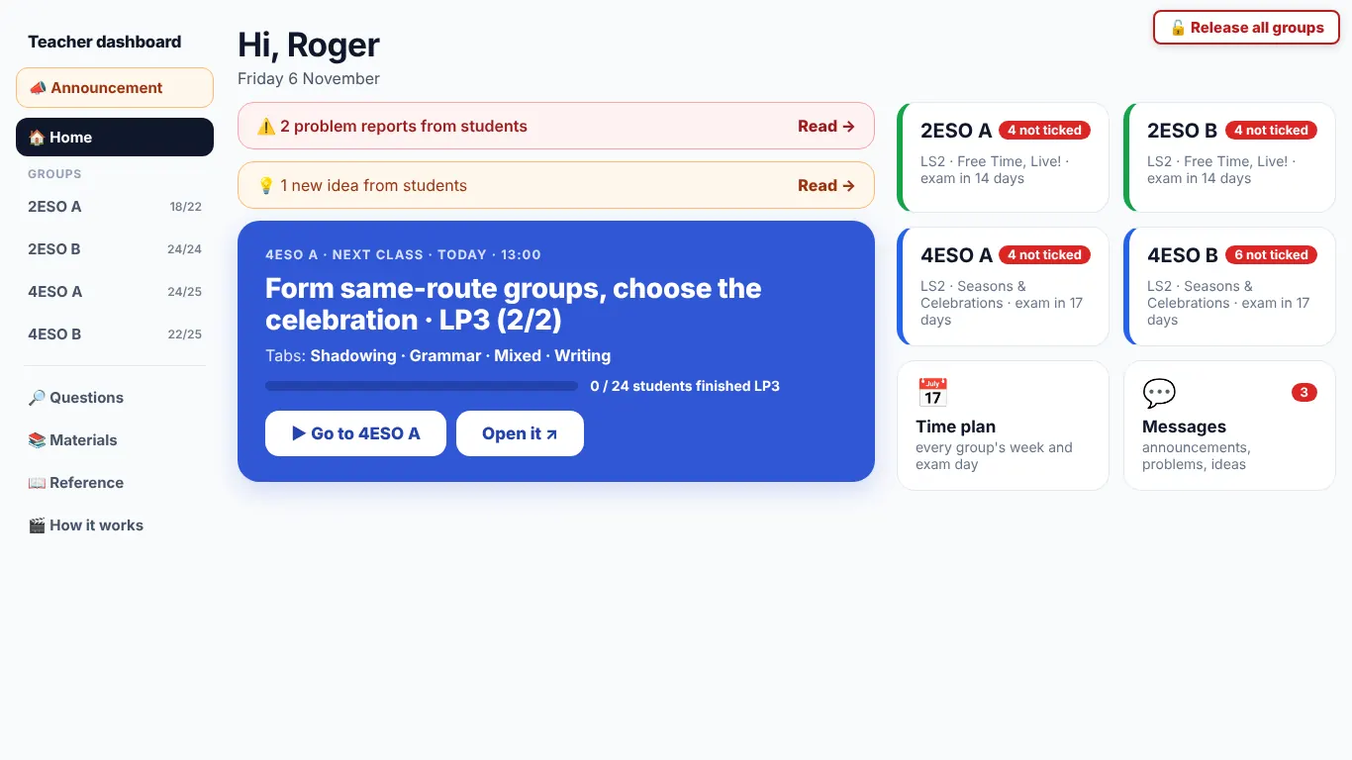
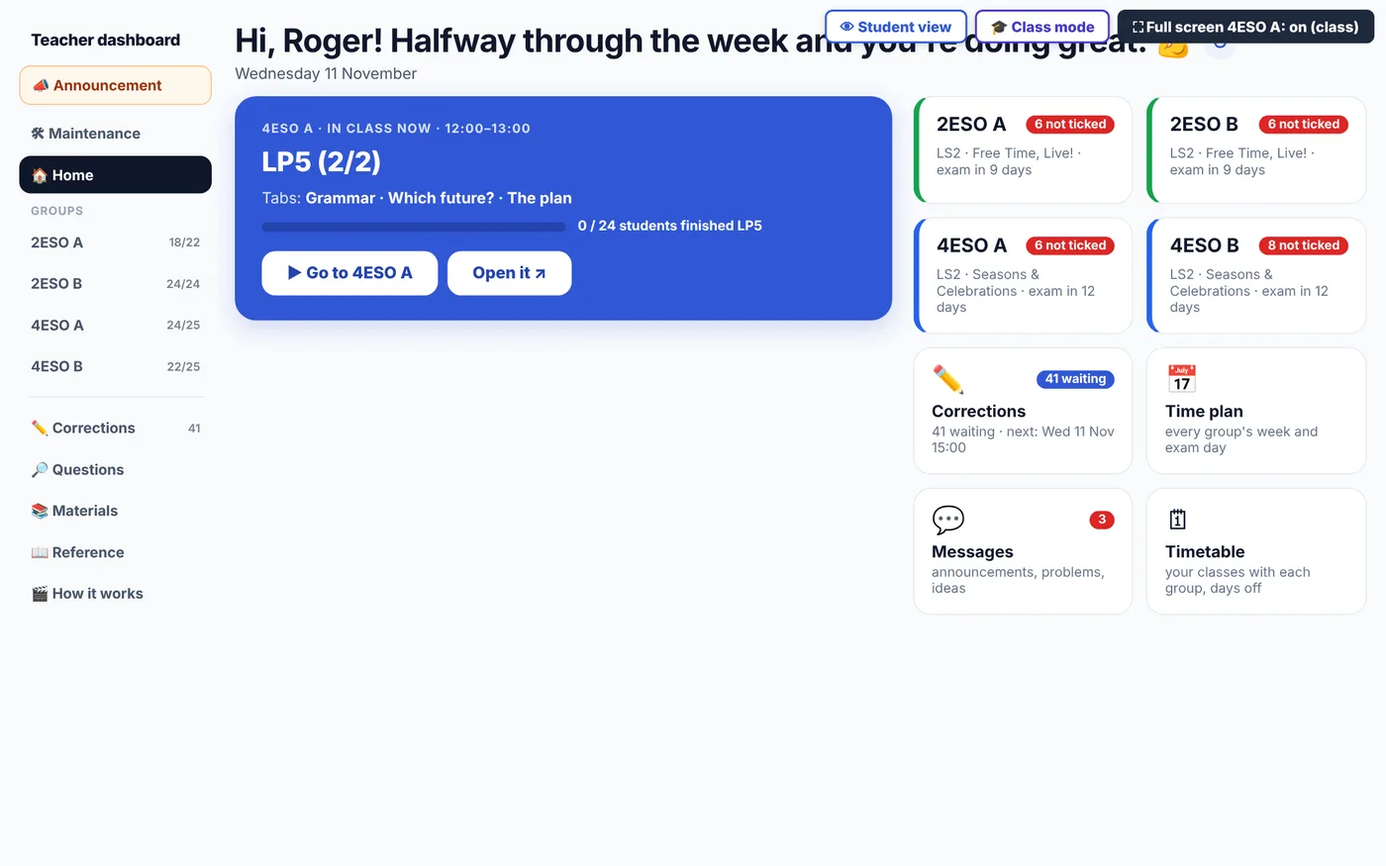
Welcome page: retake the pictures from the current site, and add the teacher's agenda
Roger: the exam picture showed only the criteria names (ours are explained),
class mode showed nobody in, and some pictures still had the old Release all
groups and full screen buttons. Retaken from the current pages in demo mode
(sample students only):
- Exam results: LS grade, results per part and each criterion explained.
- Focused in class: class mode with 21 in, who left full screen and who lost
  connection.
- The teacher's dashboard and agenda: group page, the Time plan with
  learning paths on the class days, and Home.
- Learning paths: open/locked table and the activities grid.
- Homework, final product, exam mode (rules + a question), the LS and
  Practise pictures.
Also fixes "Seasons &amp; Celebrations" (escaped twice) at the top of the
Time plan's learning-path column.

Claude-Session: https://claude.ai/code/session_011rtGVnZz9G4f5sruhzMcZ9

Changed region(s): [[0.0, 0.0, 1.0, 0.6875], [0.0, 0.625, 0.123, 0.7188], [0.9531, 0.5, 0.9839, 0.5312]]

diff --git a/index.html b/index.html
@@ -363,11 +363,11 @@
           <button type="button" class="feat" data-imgs="story"><span class="fi" aria-hidden="true">📖</span><h3>Stories to read in chapters</h3><p>A serial story for each course, one chapter per learning path and written in four levels, to keep reading at home.</p><span class="see">See it →</span></button>
           <button type="button" class="feat" data-imgs="board"><span class="fi" aria-hidden="true">🏠</span><h3>Each student&#x27;s own board</h3><p>Every student has a board with what to do next, their mark so far, the teacher&#x27;s feedback and a self-assessment at the end of each unit.</p><span class="see">See it →</span></button>
           <button type="button" class="feat" data-imgs="homework"><span class="fi" aria-hidden="true">🗓</span><h3>Homework with reminders</h3><p>The teacher sets homework from the dashboard. Students find it on their board and get a summary of the week by email.</p><span class="see">See it →</span></button>
-          <button type="button" class="feat" data-imgs="exam-mode"><span class="fi" aria-hidden="true">📝</span><h3>Exams in exam mode</h3><p>Exams are done in the app in exam mode: they open in full screen, and if a student leaves it, the exam is handed in.</p><span class="see">See it →</span></button>
+          <button type="button" class="feat" data-imgs="exam-mode,exam-mode-q"><span class="fi" aria-hidden="true">📝</span><h3>Exams in exam mode</h3><p>Exams are done in the app in exam mode: they open in full screen, and if a student leaves it, the exam is handed in.</p><span class="see">See it →</span></button>
           <button type="button" class="feat" data-imgs="exam"><span class="fi" aria-hidden="true">📋</span><h3>Exam results by criterion</h3><p>After the exam, each student sees their mark for every criterion of the curriculum, explained in simple words.</p><span class="see">See it →</span></button>
           <button type="button" class="feat" data-imgs="final"><span class="fi" aria-hidden="true">🎬</span><h3>Final product with a rubric</h3><p>Each unit ends with a final product marked with one clear rubric: students see their level shaded in each part and the teacher&#x27;s feedback.</p><span class="see">See it →</span></button>
-          <button type="button" class="feat" data-imgs="dashboard"><span class="fi" aria-hidden="true">📊</span><h3>The teacher&#x27;s dashboard</h3><p>One place for the teacher: the next class, every group, marks, corrections and messages from students.</p><span class="see">See it →</span></button>
-          <button type="button" class="feat" data-imgs="paths"><span class="fi" aria-hidden="true">📈</span><h3>The teacher follows every learning path</h3><p>The teacher sees what each student has done and what is missing, and opens or locks each learning path and section for each group.</p><span class="see">See it →</span></button>
+          <button type="button" class="feat" data-imgs="dashboard-group,agenda,dashboard"><span class="fi" aria-hidden="true">📊</span><h3>The teacher&#x27;s dashboard and agenda</h3><p>One place for the teacher: an agenda where learning paths are dragged onto each group&#x27;s class days, the next class, marks, corrections and messages from students.</p><span class="see">See it →</span></button>
+          <button type="button" class="feat" data-imgs="paths,paths-grid"><span class="fi" aria-hidden="true">📈</span><h3>The teacher follows every learning path</h3><p>The teacher sees what each student has done and what is missing, and opens or locks each learning path and section for each group.</p><span class="see">See it →</span></button>
           <button type="button" class="feat" data-imgs="class"><span class="fi" aria-hidden="true">🔒</span><h3>Focused in class</h3><p>In class the app goes full screen: the teacher sees who is in the app and who has left it, and can take the whole group to the same activity, so students stay on task.</p><span class="see">See it →</span></button>
           <button type="button" class="feat" data-imgs="phone"><span class="fi" aria-hidden="true">💻</span><h3>Chromebooks and phones</h3><p>Made for school Chromebooks, and it works on phones too, where students can add it to the home screen like an app.</p><span class="see">See it →</span></button>
         </div>
@@ -474,7 +474,7 @@
     document.querySelectorAll('.feat[data-imgs]').forEach(card => card.addEventListener('click', () => {
       shot.querySelector('h3').textContent = card.querySelector('h3').textContent;
       const body = shot.querySelector('.shot-body'); body.innerHTML = '';
-      card.dataset.imgs.split(',').forEach(n => { const im = document.createElement('img'); im.src = 'shared/img/home/' + n + '.webp'; im.alt = card.querySelector('h3').textContent; im.loading = 'lazy'; body.append(im); });
+      card.dataset.imgs.split(',').forEach(n => { const im = document.createElement('img'); im.src = 'shared/img/home/' + n + '.webp?v=2'; im.alt = card.querySelector('h3').textContent; im.loading = 'lazy'; body.append(im); });
       shot.showModal(); shot.scrollTop = 0;
     }));
     shot.querySelector('.shot-x').addEventListener('click', () => shot.close());

diff --git a/teacher.html b/teacher.html
@@ -2372,7 +2372,7 @@ function agList(x,studs){const ag=agOf(x),info=S.D.ls[x.ls]||{},hw=hwItems(x),dr
   const shut=rows.filter(r=>!r.open),k="agshut"+x.ls+x.gid;
   const rowsH=rows.filter(r=>r.open).map(r=>r.h).join("")+(shut.length?`<details class="agpast agshut" data-k="${esc(k)}" ${S.open.has(k)?"open":""}><summary>🔒 Not opened yet (${shut.length})</summary>${shut.map(r=>r.h).join("")}</details>`:"");
   const ex=ag.exam,n=ex?ELWeek.days(t,ex):null;
-  return `<aside class="agl" data-agdrop="" ${D}><h2>${esc(lsLabel(EL_LS.find(l=>l.id===x.ls))||x.ls)}</h2><p class="muted">Drag a learning path or one tab to a class day: it opens for the group. Drop it back here to take it off the agenda: it locks again.</p><p class="agkey">What each tab works: ${[["2","L","Listening"],["3","S","Speaking"],["4","R","Reading"],["5","W","Writing"]].map(([k,l,n])=>`<i style="background:${compCol(k)}">${l}</i> ${n}`).join(" ")} · other competences by their code<p class="agkey">On the class days: 👤 individual work · <b class="agiwk">👥</b> group work. Click it to switch a tab, or the one next to the learning path for all its tabs that day. <b class="aghw on" style="cursor:default">🏠</b> homework: click it on a tab to make it homework for the next class (click again to undo).</p>`
+  return `<aside class="agl" data-agdrop="" ${D}><h2>${(()=>{const l=EL_LS.find(l=>l.id===x.ls);return l?lsLabel(l):esc(x.ls)})()}</h2><p class="muted">Drag a learning path or one tab to a class day: it opens for the group. Drop it back here to take it off the agenda: it locks again.</p><p class="agkey">What each tab works: ${[["2","L","Listening"],["3","S","Speaking"],["4","R","Reading"],["5","W","Writing"]].map(([k,l,n])=>`<i style="background:${compCol(k)}">${l}</i> ${n}`).join(" ")} · other competences by their code<p class="agkey">On the class days: 👤 individual work · <b class="agiwk">👥</b> group work. Click it to switch a tab, or the one next to the learning path for all its tabs that day. <b class="aghw on" style="cursor:default">🏠</b> homework: click it on a tab to make it homework for the next class (click again to undo).</p>`
     +`<div class="agla exam"><div class="aglh" draggable="${ex?"true":"false"}" data-ag="exam" data-from="${ex||""}" ${D} title="Drag it to another day"><span class="agdot">⠿</span><span class="agln"><b>📝 Exam</b><small>${ex?esc(ELWeek.date(ex))+(n>1?` · in ${n} days`:n===1?" · tomorrow":n===0?" · today":" · done"):"no day yet"}</small></span></div></div>`
     +(shdUrl(x.ls)?(()=>{const sd=Object.keys(ag.days).filter(d=>ag.days[d].includes(SHD)).sort();return `<div class="agla shd"><div class="aglh" draggable="true" data-ag="shd" data-from="" ${D} title="Drag it to a class day (as many days as you like)"><span class="agdot">⠿</span><span class="agln"><b>🎬 Shadowing · whole class</b><small>the unit's video${sd.length?" · "+sd.map(d=>ELWeek.date(d).replace(/ \w+$/,"")).join(" · "):" · not on the agenda"}</small></span><a class="aglk" href="${esc(shdUrl(x.ls))}" target="_blank" rel="noopener" title="Open the video">▶</a></div></div>`})():"")
     +rowsH+`</aside>`}

diff --git a/AGENTS.md b/AGENTS.md
@@ -163,7 +163,7 @@ Every LS from LS2 on ends with a Reflect page whose **first tab is a self-assess
 - **Exam by criterion (Roger, 30 Oct 2026):** an exam section may carry its criteria, `[key, name, max, [criteria]]`, as on the exam's cover (Apartat · Criteri · Punts). `elExamByCrit` (el-grading.js) sums each criterion's sections, so a section shared by two criteria (vocabulary: 4.1 and 5.1) counts in both; the exam mark stays all points ÷ 10 (Roger, 30 Oct 2026: “leave the exam as it is”). **Use of English is reading and writing (Roger, 30 Oct 2026: “even though students see that section as Use of English … the competences are reading and writing”):** vocabulary and grammar sections count for reading and writing alike (LS2: both 4.1 and 5.1); LS1 keeps the criteria printed on its exam covers. The same holds in the learning paths (Roger, same day): a vocabulary or grammar step with no criteria of its own (recall, words, cards, practice, grammar, mixed, vocab) counts for 4.1 and 5.1 (end of `el-catalog.js`), so the whole-year view's “how much it is worked” counts it as reading and writing. **The final product counts 25 % in every LS** (Roger, 30 Oct 2026; LS1: exam 75 · final product 25, it was 50/50). The dashboard's Exam marks table and a student's LS grade dialog show a mark /10 per criterion, and the student board (LS1 view) shows "Your exam by criteria". 4ESO LS1 splits the writing into its rubric rows (task 8, grammar 4, vocabulary 4 → 5.1; organisation 4 → 5.2). 2ESO LS1 follows its exam cover per item type: vocabulary choose 16 → 4.1, complete 12 → 5.1; grammar choose 14 → 5.1 and 4.1, complete 18 → 5.1; writing as in 4ESO. Typed marks are kept between 0 and the section maximum and the criteria, exam mark and LS mark update as they are typed (`liveExam`); saving refuses a score above its maximum. Typed exam marks save by themselves when the box is left (`autoSaveExam`, "not saved yet" / "✓ saved" next to the name; leaving the page with unsaved marks asks first): on 30 Oct 2026 marks typed but never saved showed on the dashboard while the student board said "no mark yet". The student board only reads saved marks. Marks from a spreadsheet: `tools/exam-marks/import-exam-marks.mjs <csv> <ls> [--apply]` on Roger's PC (CSV outside the repo, `email` + section keys). Exam version (Roger, 30 Oct 2026): `.version` (insecure/safe/daring) in `results/{ls}__assessment` says which exam version the student took; the Exam marks table and the grade dialog have a selector (saves on change), the LS grade table shows it under the exam mark, and the import takes an optional `version` column. The Exam marks table also shows the current route next to the version, with ⚠ when they differ (also in the LS grade table and the grade dialog).
 - **The board is the LS report (Roger, 1 Nov 2026: "the idea is that I don't need to make [the LS1 reports] again since all the info could be on their student board"):** `today.html` has a big LS picker card (`lsCard`) with three tabs per LS: 🗓 My week (week plan, homework, summary, practice; hidden for an `only` LS with no plan), 📈 My formative assessment (learning-path grids and "Summary of my criteria", in an orange frame so it stands out; an `only` LS shows its final product) and 📝 My exams (`examView`; the exam is shown only there). Hashes `#week`, `#formative`, `#exam` open a tab (the exam notice links `?ls=…#exam`). My exams: LS grade (`only` LSs: exam + final product + LS mark; other LSs: exam mark and its weight, the rest given by the teacher), 1 results per part, 2 exam by criteria, then the report from `results/{ls}__assessment .report` = `{model, lang, questions:[{q,part,pts,got,text,mine,right,why,lp:{t,href}}], writing:{original, corrected (changes in *…*), rubric:[{name,score,max}] (Firestore allows no array in an array; the old [name,score,max] form is still read), feedback, errors:[{type,orig,fix,why}], note}, review:[{text,lp}]}`: 3 questions to review, 4 the writing (rubric, comment, Mistake / Correction / Why table as in `el-corrections.js`, own text next to the corrected one; `note` = a teacher's note such as the reliability check), 5 what to review with links. Before the exam is marked the tab says so and gives the exam day. Report texts are in the student's language at the exam (Catalan for Insecure, English otherwise). LS1: `tools/exam-report/build-ls1-reports.py {4eso|4eso-six|2eso} <workbook> <out.json> [why-en.json]` turns Roger's marked workbooks (the ones his Apps Script made PDFs from) into `{email: report}`; `node tools/exam-report/import-exam-report.mjs <json> <ls> [--apply]` writes only `.report` (dry run without --apply; on Roger's computer, JSON outside the repo). Any later exam pipeline only needs to write the same `.report`. **Whole exam, question by question (Roger, 2 Nov 2026: "students … want to see what they did well too", with the reading text):** a report with `full: true` holds every question of the student's own exam (model + route): the right ones as `{q,part,pts,got,text,mine,ok:true}` (no why/lp), each question with the paper's choices `opts:["A. …",…]` and `hint`, plus `exam:{listening:{about,text (transcript, if any)},reading:{title,body},writing:{title,task,points}}`; box 3 becomes "Your exam, question by question" (`examWhole`): parts with their text (reading always shown, transcript in a fold, writing task), green/red/amber cards with the choices (theirs and the right one marked), why + review link on the lost ones, and an All / Right / To review filter (CSS `:has`, no state). Reports without `full` keep the old table. Built with `build-ls1-reports.py … --exam exam-texts.json` (exam texts parsed from the Word papers in Drive, kept in project files, never in this public repo), written with `node tools/exam-report/add-full-exam.mjs <json> <ls> [--apply]`, which adds only the right questions, opts/hint and `exam` to the report already on the board and skips a student whose questions to review differ (sign-in: `FIREBASE_SERVICE_ACCOUNT` or the Firebase CLI). Future web exams should store the same shape. **Writing rubric explained (Roger, 2 Nov 2026: "aquí falta explicar bé els criteris d'avaluació"):** rows named `C1`–`C4` (task and content, grammar, vocabulary, organisation and cohesion) are drawn as cards (`WRUB` in `today.html`), in the board's language whatever the report's: what the row checks, its official criterion (from the exam sections `wtask`/`wgrammar`/`wvocab`/`worg` in `EL_GRADING`), four levels shown as the row's mark out of 4 (Excellent 4/4, Good 3/4, Needs work 2/4, Not enough 1/4; Roger 2 Nov 2026: "hauria de ser 3/4 i si vols la ponderació") with a ⚖ weight line (the row's % of the writing and the points it gives); the level comes from the points, each level showing its point range (Excellent = full marks only, Good from ¾ of the points, Needs work from ⅜: out of 8 = 8 · 6–7 · 3–5 · 0–2, out of 4 = 4 · 3 · 2 · 0–1; `wCuts`; Roger 2 Nov 2026: 7/8 as Excellent made no sense) with the student's marked, and the numbers of the mistakes of that row (`WTYPE`, by the first word of the mistake type; mixed types get none; C1 points to the teacher's comment). Other row names are shown as they come. A later exam keeps this by naming its writing rows C1–C4.
 - **Simple student board and learning paths (Roger, 6 Nov 2026: "the menus have little information and when you go to a place you can find the info that you need"; students use Chromebooks, so design for ~1366×768 first):** `today.html` home shows only a greeting (first name, group · LS · days to the exam), red alerts (missing activities, unread announcements), one big **Continue** card (`nextFor`: the first open, not done, not dropped activity in plan order, or a missing checkpoint) and four tiles: 🏠 Homework `#homework` (work count, late list, week plan), 📊 My marks `#marks` (LS chips + the formative / final product / exams tabs above), 📚 Learning Situations `#units` (LS cards, level, study and practice) and ❓ Help `#help` (how-it-works videos, Problem/Idea, hard reload). Each place has a ‹ Home back link; `#news` holds announcements; old hashes `#formative`, `#final`, `#exam` open My marks and `#week` opens Homework. The LS2 learning-path page (`ls2-engine.js`, both courses) folds the warm-up note and "how it works" into one ⓘ fold, puts the study guide next to it, and on wide screens lists the steps on the left (numbers, ✓ when done, NEXT on the first one not done). New student screens follow the same rule: little on the menu, the details inside each place. LS1 pages are unchanged. **Phone view (Roger, 6 Nov 2026: "so that students can use it on their cellphones"):** at ≤640px the board hides the top menu and shows a fixed bottom bar (`bnav`: Home, Homework, Marks, LS, Help, with the missing count), the home is compact, the learning-paths table becomes one card per path, and the LS place carries the links the top menu had (My course, Practise, English Lab); on LS2 learning paths the top bar scrolls away and the strip of steps sticks to the top of the screen, keeps the open step in view and jumps to the start of the step when tapped. Check new student screens at 390×844 too. **Study on your phone (Roger, 6 Nov 2026):** a dismissible card on the board home ("Study on your phone too", hidden once closed via `localStorage.el_phone_seen` and when opened from the home screen) and in Help leads to `#phone`: the board and a learning path on a phone, a QR code to `today.html` (`shared/img/phone/qr-board.svg`, hidden on phones), Android Chrome and iPhone Safari step pictures in Catalan and English (`shared/img/phone/*.webp`, the device's own steps open first) and Chrome's Install button when the browser offers it (`beforeinstallprompt`). If the board changes a lot, retake the pictures.
-- **The whole site as an app (Roger, 6 Nov 2026: "I want everything to look like an app for them even though they connect through a Chromebook"; "these things should look like buttons"; "it's not my activities but my dashboard"):** the board is called **My dashboard / El meu tauler** everywhere (menus, ‹ back links, `menuLink` in `el-cloud.js`, page title); the "📋 My activities" box on it keeps its name. Every menu item is a button with an icon (`shared/css/el-app.css`: `.side .nv` with `.ic` + `.lb` spans; the board, the LS home via `ls-home.css`, English Lab). `shared/js/el-app.js` (loaded by `el-cloud.js` on every page, and at once by `ls2-engine.js`) gives every other student page the same menu, 🏠 My dashboard · 📚 LSn (the page's LS, else the group's by `ELWeek.now`) · 🗂 All LS · 🧪 English Lab · 🎯 Practise · ❓ Help (teacher: 📊 Dashboard, no Help): on a computer the LS home's side menu on the left (`.elrail`, 240 px: brand + the same wide `.nv` buttons with labels and ›, the LS by its title; Roger, 7 Nov 2026: "the format should be the same (buttons)"; 641–980 px a strip of icon buttons, 92 px) on learning paths (LS2 on: every page with the engine's `#sessionJump`), course pages and vocabulary games; English Lab and Practise keep their side menu, rebuilt as buttons (`.elside`); a phone gets the bottom bar (`.elbar`, ≤640 px; the account bar moves to the page end). On learning paths the dark top bar becomes a light one (‹ LS button, path selector) and, on a computer (≥1000 px; Roger, 6 Nov 2026: "use a column on the left with info of the LP, and it must be super easy to understand"), the page is two columns: on the left (`.ellpside`, sticky, scrolls on its own) the path's title and what it is, Your progress (level and steps done), the teacher's card (class game, level buttons, and the sections bar `el-cloud.js` draws into `.eltsec-host`: sections open, pull up, full screen, locked warning; its long help text and the Teacher mode strip are hidden), the steps, then How it works, the study guide and My goal; the step is on the right. `lpLayout` in `el-app.js` moves the hero pieces once and the engine's `.lp-top`, goal card and steps nav after every redraw of `#lp`; a phone and narrow windows keep the page's own layout. A student's single level card goes. A learning path page that does not use the engine (4 ESO LS2 Getting started) must have the same parts in `main#lp`: `.lp-top` (How it works fold + study guide), then the goal `.plan-card` right after it, then `.lp-body` with `nav.tabs` (steps as `.tn` number + `.tl` label, `done`/`next` classes) and the panels; otherwise it keeps the old hero and tab layout (Roger, 7 Nov 2026: "this doesn't match the new style"). Course pages and English Lab keep the public look when signed out. **The home page (`index.html`) is only a welcome page to sign in (Roger, 7 Nov 2026: "it makes no sense that this menu exists since we all go to the dashboards. Maybe, we should have a welcome page to sign in"):** no menu and no account chip for a signed-out visitor: what the app is (Spanish and Catalan curriculum, learning situations, competences, structured grammar and vocabulary), one Sign in button and sixteen "What's inside" cards, each opening its picture(s) from `shared/img/home/` (sample students only, never real names; keep cards and pictures true when features change); whoever is signed in goes to their dashboard (teacher `teacher.html`, students and the test account `today.html`), at once from `el_who` in the page head and again once Firebase answers. Signed out on `teacher.html` or `today.html` (sign-in ended, a bookmark) goes back to this welcome page (Roger, 7 Nov 2026: "this should be the page"); `el-cloud.js` removes `el_who` before `onUser` runs, so there is no loop. Only the teacher's and the test account's Courses and Learning Situations lists stay (`index.html#courses`, `#learning`, el-app.js mode `home`: 📊 Dashboard · 🏫 Courses · 📚 Learning Situations · 🧪 English Lab · 🎯 Practise). LS1 pages, the board and LS homes (their own full menu), class games and model slideshows are left out. No Firestore reads. A new student page gets the menu by matching one of the modes in `el-app.js`. **All Learning Situations (Roger, 6 Nov 2026: "aquest no m'agrada"):** for a signed-in user the course page (`2eso/`, `4eso/`) is replaced by `allLs` in `el-app.js`: "My Learning Situations", one row per LS the group can open (the one the group is doing now first and highlighted, chips Now / Open / Closed · to review, Hidden for the teacher), each with its number, what it is about (the page's own card text) and one Open button; statuses come from the cached `ELCloud.lsNow`. **English Lab by level, not by course (Roger, 6 Nov 2026: "hauria d'estar per nivells no per cursos"; he chose one ladder):** `elLadder()` in `el-catalog.js` groups every [course, route] by its CEFR level from `EL_CEFR` (A1 = 2 ESO Starter + 4 ESO Starter, A1+, A2 = 2 ESO Core + 4 ESO Base, A2+, B1, B1+, C2 = 4 ESO Pro). `lab/index.html` opens a student straight on their level ("Your level: A2", no course or level buttons) and shows the games and grammar of every course with that level; the teacher picks a step (A1 … C2). `lab/practice.html` gathers the word cards, sentence builder, listenings and shadowing of every pair of the step, each at its own route (the student's own course first; the other course's LSs once open or closed and its paths once opened for any of its groups); the teacher's ladder replaces the course chips and English Lab passes the step as `?level=A2`. A new course or route joins the ladder through `EL_CEFR` alone.
+- **The whole site as an app (Roger, 6 Nov 2026: "I want everything to look like an app for them even though they connect through a Chromebook"; "these things should look like buttons"; "it's not my activities but my dashboard"):** the board is called **My dashboard / El meu tauler** everywhere (menus, ‹ back links, `menuLink` in `el-cloud.js`, page title); the "📋 My activities" box on it keeps its name. Every menu item is a button with an icon (`shared/css/el-app.css`: `.side .nv` with `.ic` + `.lb` spans; the board, the LS home via `ls-home.css`, English Lab). `shared/js/el-app.js` (loaded by `el-cloud.js` on every page, and at once by `ls2-engine.js`) gives every other student page the same menu, 🏠 My dashboard · 📚 LSn (the page's LS, else the group's by `ELWeek.now`) · 🗂 All LS · 🧪 English Lab · 🎯 Practise · ❓ Help (teacher: 📊 Dashboard, no Help): on a computer the LS home's side menu on the left (`.elrail`, 240 px: brand + the same wide `.nv` buttons with labels and ›, the LS by its title; Roger, 7 Nov 2026: "the format should be the same (buttons)"; 641–980 px a strip of icon buttons, 92 px) on learning paths (LS2 on: every page with the engine's `#sessionJump`), course pages and vocabulary games; English Lab and Practise keep their side menu, rebuilt as buttons (`.elside`); a phone gets the bottom bar (`.elbar`, ≤640 px; the account bar moves to the page end). On learning paths the dark top bar becomes a light one (‹ LS button, path selector) and, on a computer (≥1000 px; Roger, 6 Nov 2026: "use a column on the left with info of the LP, and it must be super easy to understand"), the page is two columns: on the left (`.ellpside`, sticky, scrolls on its own) the path's title and what it is, Your progress (level and steps done), the teacher's card (class game, level buttons, and the sections bar `el-cloud.js` draws into `.eltsec-host`: sections open, pull up, full screen, locked warning; its long help text and the Teacher mode strip are hidden), the steps, then How it works, the study guide and My goal; the step is on the right. `lpLayout` in `el-app.js` moves the hero pieces once and the engine's `.lp-top`, goal card and steps nav after every redraw of `#lp`; a phone and narrow windows keep the page's own layout. A student's single level card goes. A learning path page that does not use the engine (4 ESO LS2 Getting started) must have the same parts in `main#lp`: `.lp-top` (How it works fold + study guide), then the goal `.plan-card` right after it, then `.lp-body` with `nav.tabs` (steps as `.tn` number + `.tl` label, `done`/`next` classes) and the panels; otherwise it keeps the old hero and tab layout (Roger, 7 Nov 2026: "this doesn't match the new style"). Course pages and English Lab keep the public look when signed out. **The home page (`index.html`) is only a welcome page to sign in (Roger, 7 Nov 2026: "it makes no sense that this menu exists since we all go to the dashboards. Maybe, we should have a welcome page to sign in"):** no menu and no account chip for a signed-out visitor: what the app is (Spanish and Catalan curriculum, learning situations, competences, structured grammar and vocabulary), one Sign in button and sixteen "What's inside" cards, each opening its picture(s) from `shared/img/home/` (sample students only, never real names; keep cards and pictures true when features change: retake them from the current site in demo mode, `today.html` with `window.EL_DEMO_STUDENT` (tools/site-video/board/demo.mjs) and `teacher.html` with `window.EL_DEMO_DATA` (tools/site-video/teacher-demo.mjs), never with empty states such as nobody in class or no homework); whoever is signed in goes to their dashboard (teacher `teacher.html`, students and the test account `today.html`), at once from `el_who` in the page head and again once Firebase answers. Signed out on `teacher.html` or `today.html` (sign-in ended, a bookmark) goes back to this welcome page (Roger, 7 Nov 2026: "this should be the page"); `el-cloud.js` removes `el_who` before `onUser` runs, so there is no loop. Only the teacher's and the test account's Courses and Learning Situations lists stay (`index.html#courses`, `#learning`, el-app.js mode `home`: 📊 Dashboard · 🏫 Courses · 📚 Learning Situations · 🧪 English Lab · 🎯 Practise). LS1 pages, the board and LS homes (their own full menu), class games and model slideshows are left out. No Firestore reads. A new student page gets the menu by matching one of the modes in `el-app.js`. **All Learning Situations (Roger, 6 Nov 2026: "aquest no m'agrada"):** for a signed-in user the course page (`2eso/`, `4eso/`) is replaced by `allLs` in `el-app.js`: "My Learning Situations", one row per LS the group can open (the one the group is doing now first and highlighted, chips Now / Open / Closed · to review, Hidden for the teacher), each with its number, what it is about (the page's own card text) and one Open button; statuses come from the cached `ELCloud.lsNow`. **English Lab by level, not by course (Roger, 6 Nov 2026: "hauria d'estar per nivells no per cursos"; he chose one ladder):** `elLadder()` in `el-catalog.js` groups every [course, route] by its CEFR level from `EL_CEFR` (A1 = 2 ESO Starter + 4 ESO Starter, A1+, A2 = 2 ESO Core + 4 ESO Base, A2+, B1, B1+, C2 = 4 ESO Pro). `lab/index.html` opens a student straight on their level ("Your level: A2", no course or level buttons) and shows the games and grammar of every course with that level; the teacher picks a step (A1 … C2). `lab/practice.html` gathers the word cards, sentence builder, listenings and shadowing of every pair of the step, each at its own route (the student's own course first; the other course's LSs once open or closed and its paths once opened for any of its groups); the teacher's ladder replaces the course chips and English Lab passes the step as `?level=A2`. A new course or route joins the ladder through `EL_CEFR` alone.
 - **Encouraging sentences (Roger, 6 Nov 2026):** `shared/js/el-cheer.js` (no Firestore reads, the pick comes from the date). The dashboard home shows one under "Hi, Roger" (same all day, new each day; Monday, Wednesday, Friday and the weekend start with their own line; ↻ shows another). The student board greeting is "Hi Pau, " + a sentence from `STUDENT` (Catalan for Starter/Base, English for Core/Plus): each student starts at their own place (hash of email or name) and moves one a day, so no repeats until the whole list has come round. Add sentences at the end of a list; student ones short, A2-friendly and gender-neutral in Catalan.
 - **Teacher feedback keeps its line breaks (Roger, 3 Nov 2026):** `.fb` boxes on `today.html` use `white-space:pre-line`, so a feedback written as a comment plus one paragraph per rubric part (as the LS1 final product marks are) shows as separate lines.
 - **Teacher feedback as a rubric table (Roger, 4 Nov 2026: "they should see the rubric and the teacher's observations"):** `fbBox` in `today.html` turns feedback with part lines `Name (30%) · 7.5/10` followed by `✔` (went well) and `➜` (keep in mind) lines into the comment box plus a table (part, weight, mark, went well, keep in mind). Write final-product feedback in that format. Feedback without part lines stays plain text.
